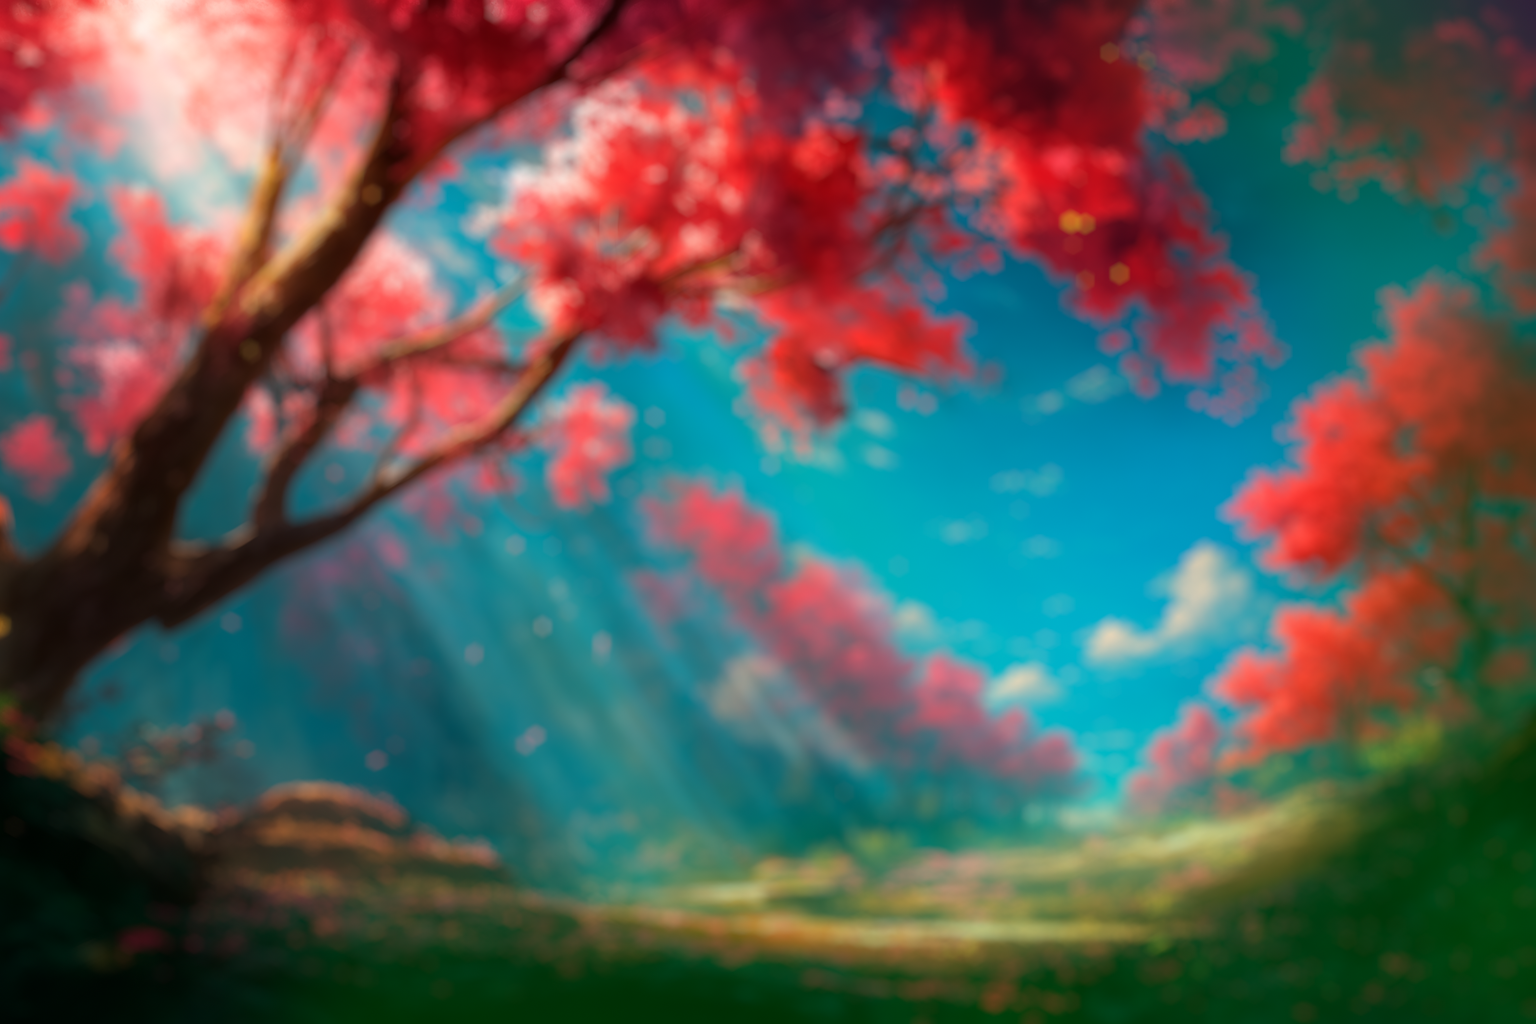
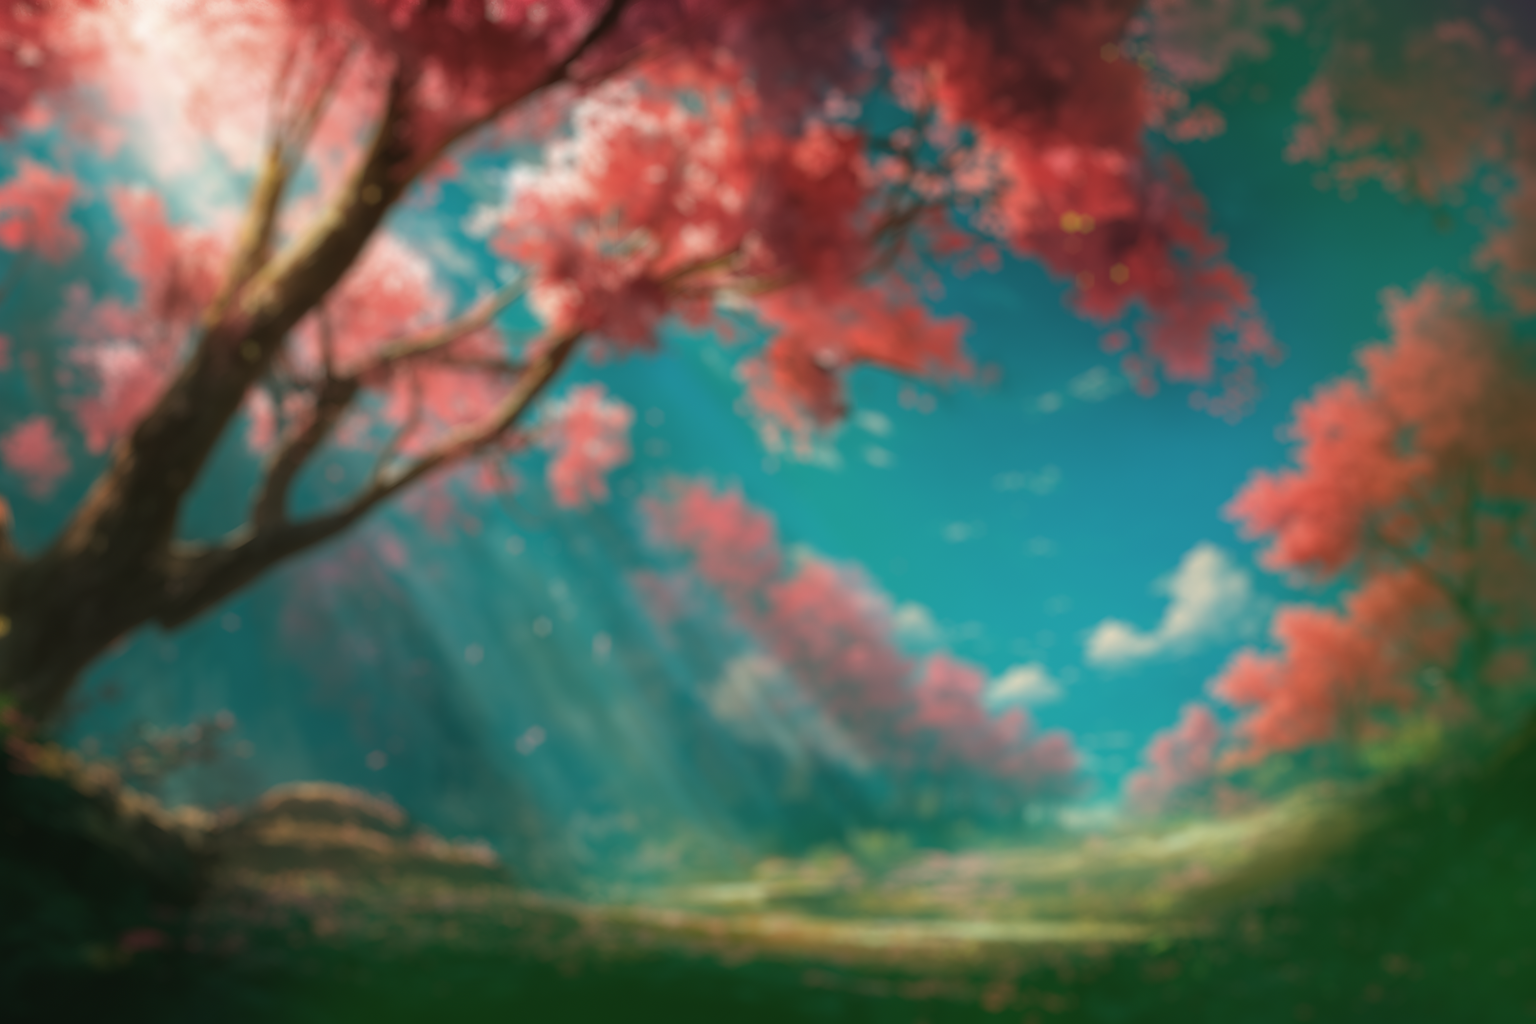
Deploy to new repo

diff --git a/css/style.css b/css/style.css
@@ -301,8 +301,8 @@ img {
 /* Mobile adjustments */
 @media (max-width: 767px) {
     body {
-        background-image: url(../img/bg-mobile.jpg);
-        background-position: center right;
+        background-image: url(../img/bg_sber.png);
+        background-position: center;
     }
 
     .header {
